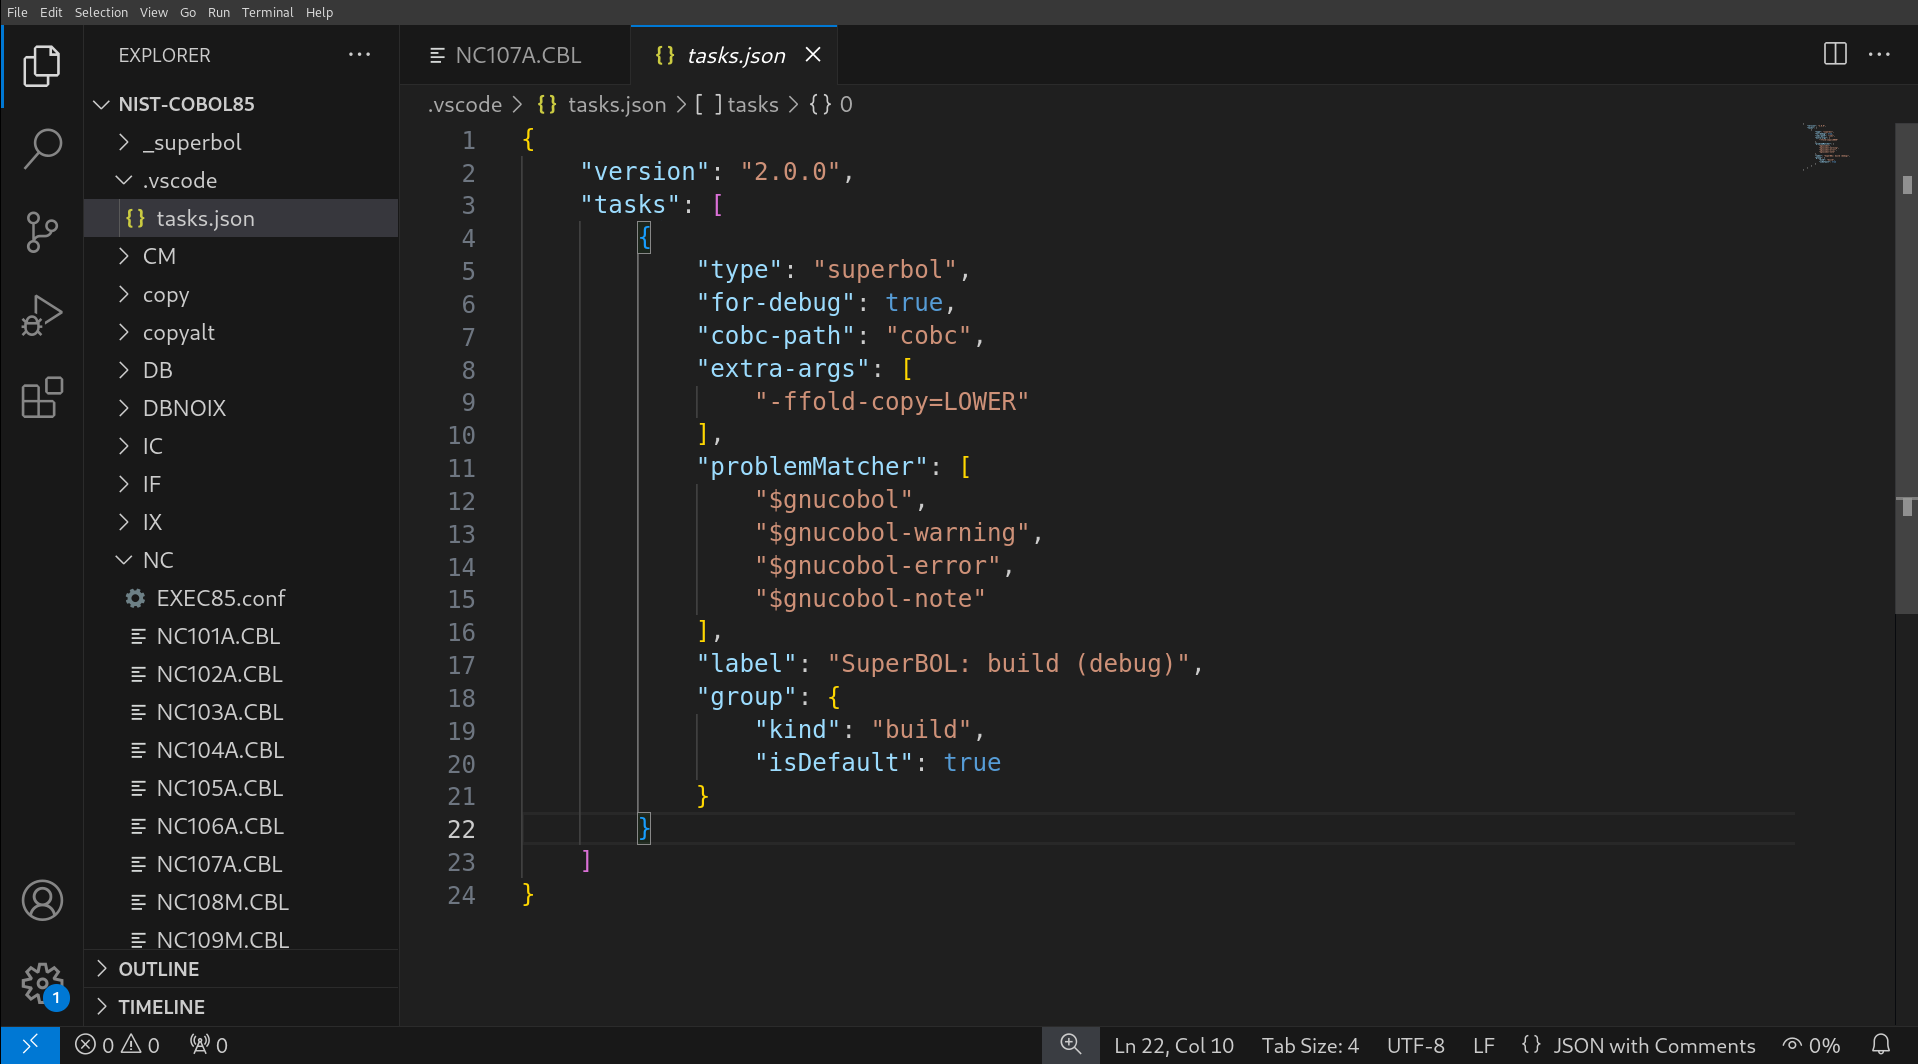
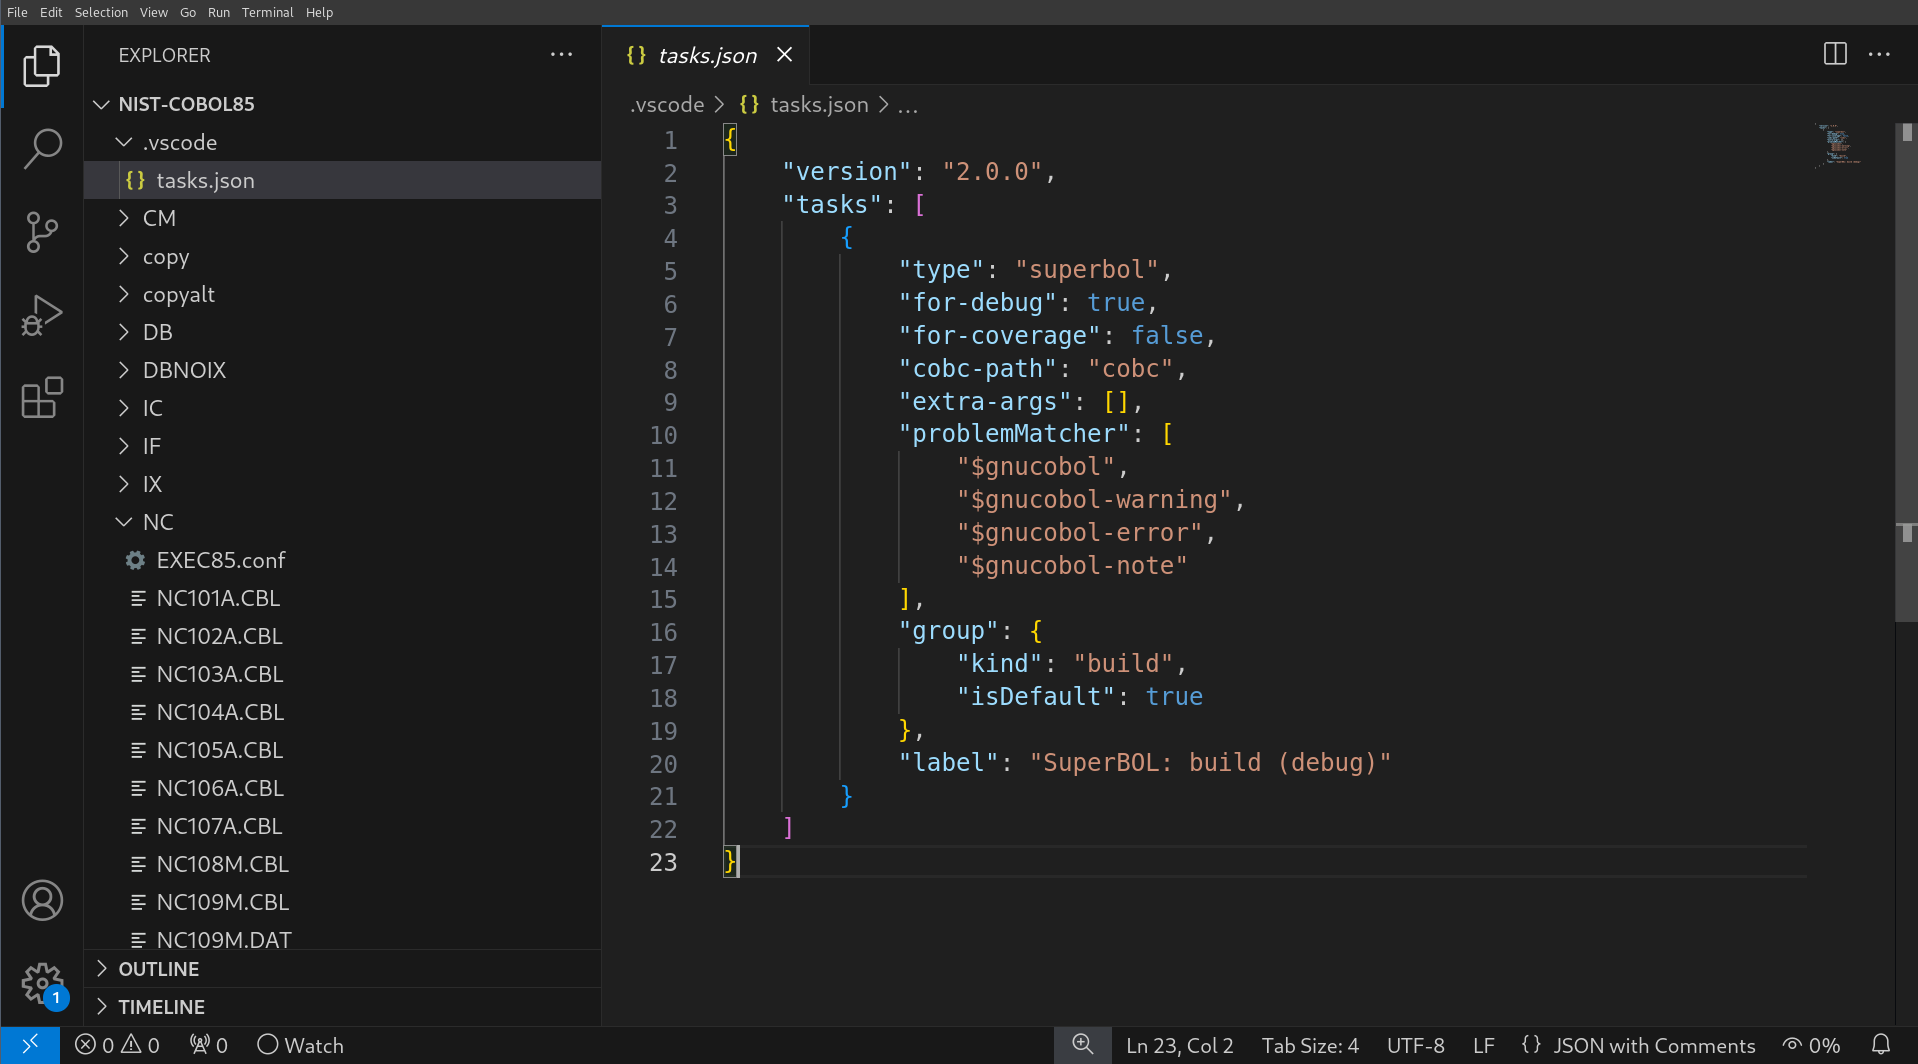
Rename coverage configuration flag, and update `README.md`

diff --git a/README.md b/README.md
@@ -209,10 +209,10 @@ debug annotations into generated executable files, as well as
 
 ## Coverage
 
-GnuCOBOL can make your programs generate coverage information at
-runtime.  To enable this feature, you can set the `enable-coverage`
-setting to `true` in the `Superbol: build (debug)` task in your
-`tasks.json` file (see [Section Customizing Build
+GnuCOBOL can instrument your programs so they can generate coverage
+information at runtime.  To enable this feature, you can set the
+`for-coverage` setting to `true` in the `Superbol: build (debug)` task
+in your `tasks.json` file (see [Section Customizing Build
 Tasks](#customizing-build-tasks)).
 
 ### Coverage Information
